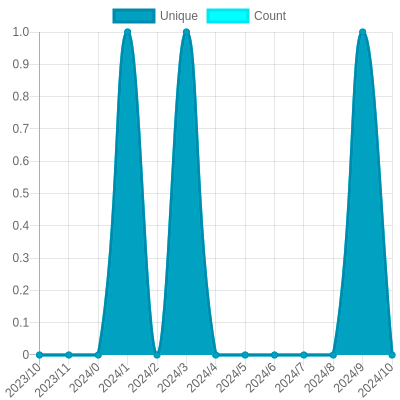
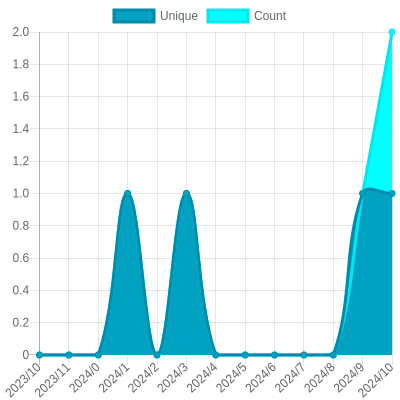
Update views

diff --git a/readme/463914141/year.md b/readme/463914141/year.md
@@ -23,10 +23,10 @@
 			<code>2023/11/1</code>
 		</td>
 		<td>
-			<code>0</code>
+			<code>1</code>
 		</td>
 		<td>
-			<code>0</code>
+			<code>2</code>
 		</td>
 	</tr>
 	<tr>
@@ -164,7 +164,7 @@
 </table>
 
 </details>
-<small><i>Last updated on 2023/11/13 6:00 AM UTC</i></small>
+<small><i>Last updated on 2023/11/13 12:00 PM UTC</i></small>
 
 ## ✂Copy and 📋 Paste
 ### SVG Badge

diff --git a/README.md b/README.md
@@ -53,7 +53,7 @@ The project created and maintained by [gayanvoice](https://github.com/gayanvoice
 	</tr>
 </table>
 
-<small><i>Last updated on 2023/11/13 6:01 AM UTC</i></small>
+<small><i>Last updated on 2023/11/13 12:01 PM UTC</i></small>
 
 ## ✂Copy and 📋 Paste
 ### Total Views Badge

diff --git a/readme/470949227/year.md b/readme/470949227/year.md
@@ -164,7 +164,7 @@
 </table>
 
 </details>
-<small><i>Last updated on 2023/11/13 6:00 AM UTC</i></small>
+<small><i>Last updated on 2023/11/13 12:01 PM UTC</i></small>
 
 ## ✂Copy and 📋 Paste
 ### SVG Badge
